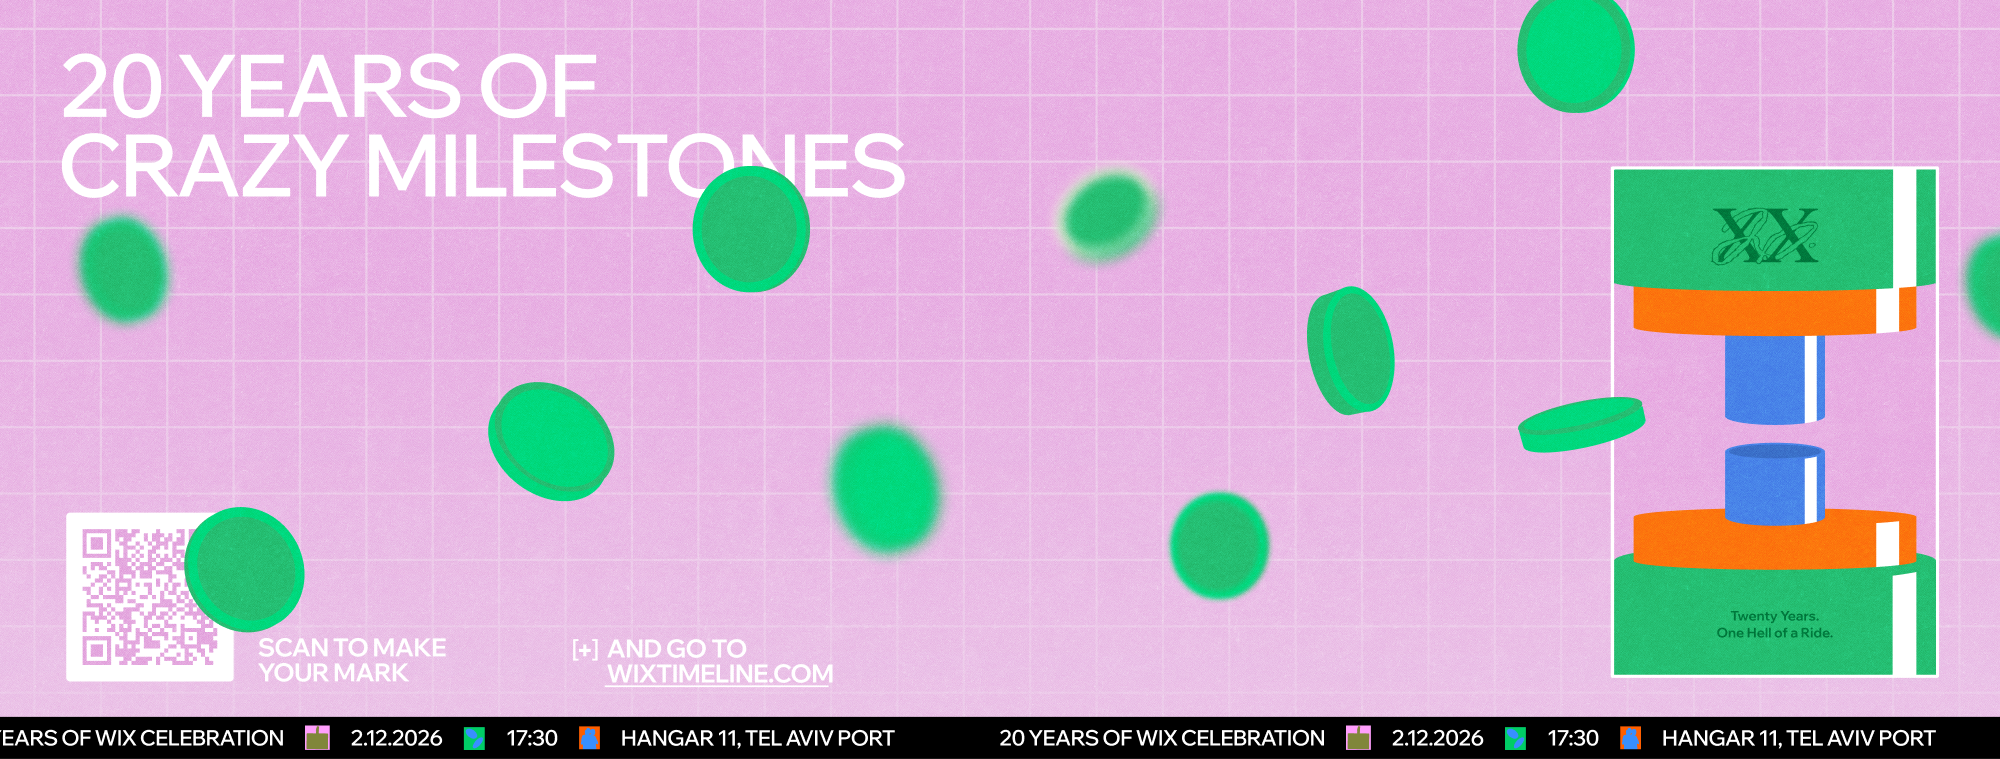
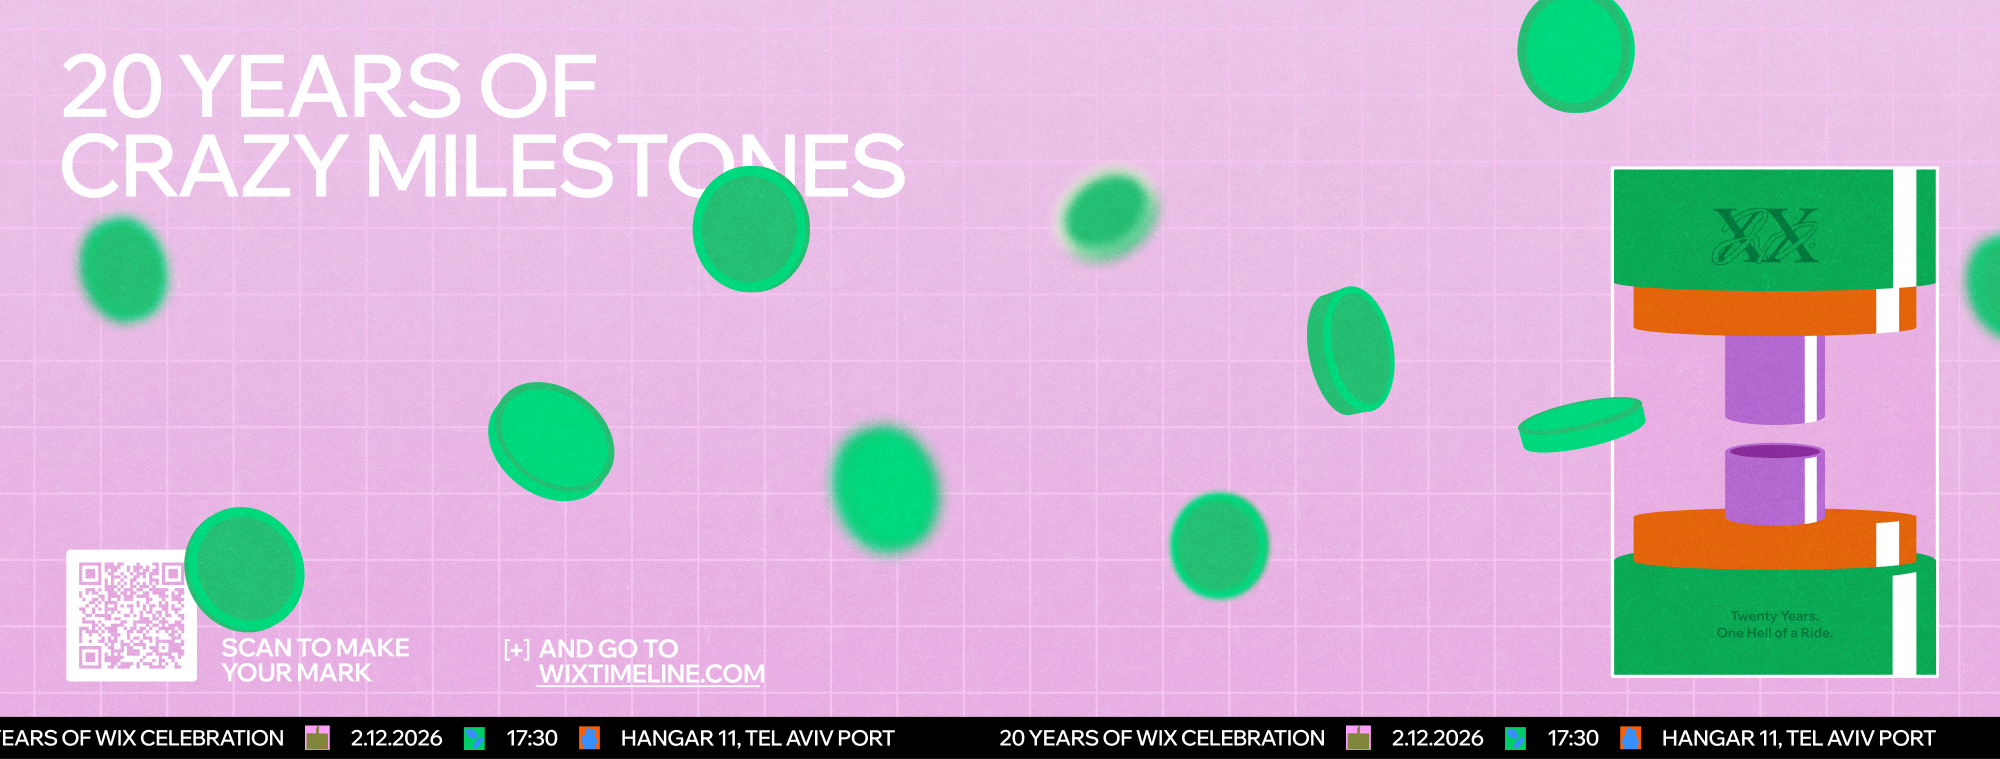
screen: 11-25 Figma update (coin colours, purple punches, light-top bg, smaller QR, text moved)

Changed region(s): [[0.806, 0.2121, 0.992, 0.9091], [0.031, 0.6667, 0.217, 0.9091], [0.248, 0.8182, 0.434, 0.9091]]

diff --git a/screen/v2-style.js b/screen/v2-style.js
@@ -5,13 +5,15 @@ export const C = {
   green: '#21ba6d', orange: '#fc750e', blue: '#4984e9', blueTop: '#3b71c8', lilac: '#eface9', white: '#ffffff', ink: '#000000',
 };
 // coin colours: the press's own colours + the lilac of the reference coin
-export const DEFAULT_COIN_COLORS = [C.green, C.orange, C.blue, C.lilac];
+// coin colours (Amnon 2026-11-25, RGB 193,118,92 / 213,207,42 / 177,13,253 / 16,157,45); the set before is PREV_COIN_COLORS
+export const DEFAULT_COIN_COLORS = ['#c1765c', '#d5cf2a', '#b10dfd', '#109d2d'];
+export const PREV_COIN_COLORS = [C.green, C.orange, C.blue, C.lilac];
 // coin colours can be chosen on the screen (office: press C) — kept in this browser, or ?colors=hex,hex,...
 export const COIN_COLORS = (() => { let l = null;
   try { const q = new URLSearchParams(location.search).get('colors'); if (q) l = q.split(',').map(h => '#' + h.replace('#', ''));
-    else l = JSON.parse(localStorage.getItem('wix20-coin-colors') || 'null'); } catch (e) {}
+    else l = JSON.parse(localStorage.getItem('wix20-coin-colors-2') || 'null'); /* -2: the 11-25 colours start fresh on every PC */ } catch (e) {}
   return (Array.isArray(l) && l.length && l.every(h => /^#[0-9a-f]{6}$/i.test(h))) ? l : DEFAULT_COIN_COLORS.slice(); })();
-export function setCoinColors(l) { COIN_COLORS.splice(0, COIN_COLORS.length, ...l); try { localStorage.setItem('wix20-coin-colors', JSON.stringify(l)); } catch (e) {} }
+export function setCoinColors(l) { COIN_COLORS.splice(0, COIN_COLORS.length, ...l); try { localStorage.setItem('wix20-coin-colors-2', JSON.stringify(l)); } catch (e) {} }
 // the art on each coin colour (white reads on all but the lilac)
 export const ART_COLORS = { [C.green]: '#ffffff', [C.orange]: '#ffffff', [C.blue]: '#ffffff', [C.lilac]: '#c46fc4' };
 export const colorFor = year => COIN_COLORS[(((+year || 2026) - 2006) % COIN_COLORS.length + COIN_COLORS.length) % COIN_COLORS.length];
@@ -27,10 +29,10 @@ export const BG = (() => { let v = null; try { v = JSON.parse(localStorage.getIt
   return { top: ok(v?.top) ? v.top : BG_DEFAULT.top, grid: ok(v?.grid) ? v.grid : BG_DEFAULT.grid }; })();
 export function setBg(o) { Object.assign(BG, o); try { localStorage.setItem('wix20-bg', JSON.stringify(BG)); } catch (e) {} }
 const mixHex = (a, b, t) => '#' + [1, 3, 5].map(i => Math.round(parseInt(a.slice(i, i + 2), 16) * (1 - t) + parseInt(b.slice(i, i + 2), 16) * t).toString(16).padStart(2, '0')).join('');
-// backdrop: flat at the top, lighter toward the bottom (Figma 9680:636: base 225,153,219 easing about a quarter of the way to #f0f0f0)
+// backdrop: lighter at the top, the chosen colour toward the bottom (Figma 9680:636 update: 235,196,232 at the top -> 232,176,227)
 export function drawBackdrop(x, W, H, ox = 0, oy = 0, FH = H) {
   const g = x.createLinearGradient(0, -oy, 0, FH - oy), b = under(BG.top);
-  for (const [at, t] of [[0, 0], [0.45, 0.023], [0.59, 0.092], [0.69, 0.15], [0.79, 0.23], [0.93, 0.276], [1, 0.276]]) g.addColorStop(at, mixHex(b, '#f0f0f0', t));
+  for (const [at, t] of [[0, 0.29], [0.3, 0.28], [0.4, 0.17], [0.5, 0.13], [0.6, 0.11], [0.7, 0.065], [0.8, 0.04], [0.9, 0], [1, 0]]) g.addColorStop(at, mixHex(b, '#f0f0f0', t));   // 11-25 update: light at the top
   x.fillStyle = g; x.fillRect(0, 0, W, H);
 }
 
@@ -46,18 +48,20 @@ export function layout(W, H) {
   return { s, box, die };
 }
 
+// the press's colours as seen on screen (Figma 9680:636, 2026-11-25 update: deeper green and orange, purple punches)
+export const PC = { green: '#0ba954', orange: '#e3650a', punch: '#b368d0', punchTop: '#8b2b9d' };
 // the press, in reference px (widths re-measured 2026-11-24: an equal gap to the frame on both sides) (absolute frame coords). cx/r: centre + half width; white: x where the lit white side starts;
 // yT/ryT: top edge + top-face ellipse (0 = hidden); yB/ryB: bottom edge + its curve. UP = the ram (moves by dy), back to front.
 const P0 = {   // re-measured off the final frame (2026-11-24): green spans the whole box; each part's white stripe ends short of its right edge (we = white end)
   UP: [
-    {cx:210,   r:50,    white:240, we:251, yT:300, yB:420, ryB:7,  col:C.blue},
-    {cx:209.5, r:141.5, white:312, we:333, yT:280, yB:326, ryB:10, col:C.orange},
-    {cx:209.5, r:161.5, white:328, we:351, yT:-400,yB:284, ryB:6,  col:C.green},
+    {cx:210,   r:50,    white:240, we:251, yT:300, yB:420, ryB:7,  col:PC.punch},
+    {cx:209.5, r:141.5, white:312, we:333, yT:280, yB:326, ryB:10, col:PC.orange},
+    {cx:209.5, r:161.5, white:328, we:351, yT:-400,yB:284, ryB:6,  col:PC.green},
   ],
   LOW: [
-    {cx:209.5, r:161.5, white:328, we:351, wT:573.5, yT:552, ryT:9, top:C.green, yB:1000, col:C.green},   // wT: the white stripe starts below the top face (Figma 9680:636)
-    {cx:209.5, r:141.5, white:312, we:333, wT:522.5, yT:520, ryT:12, top:C.orange, yB:552, ryB:16, col:C.orange},
-    {cx:210,   r:50,    white:240, we:251, yT:452, ryT:8,  top:C.blueTop, yB:517, ryB:8, col:C.blue},   // bottom curves like its top: it stands in the plate
+    {cx:209.5, r:161.5, white:328, we:351, wT:573.5, yT:552, ryT:9, top:PC.green, yB:1000, col:PC.green},   // wT: the white stripe starts below the top face (Figma 9680:636)
+    {cx:209.5, r:141.5, white:312, we:333, wT:522.5, yT:520, ryT:12, top:PC.orange, yB:552, ryB:16, col:PC.orange},
+    {cx:210,   r:50,    white:240, we:251, yT:452, ryT:8,  top:PC.punchTop, yB:517, ryB:8, col:PC.punch},   // bottom curves like its top: it stands in the plate
   ],
   OPEN: +(new URLSearchParams(location.search).get('open') ?? 0), HIT: 33,   // ram offset at rest (0 = as in the frame) / at the blow
   coinK: 0.78,             // struck coin radius / punch radius

diff --git a/screen/office.html b/screen/office.html
@@ -47,13 +47,13 @@
   <label><span>טשטוש עומק</span><input id="ta" type="range" min="0" max="0.8" step="0.05"><b id="tav"></b></label>
   <label><span>כהות הברקוד</span><input id="tq" type="range" min="0" max="1" step="0.05"><b id="tqv"></b></label>
   <div class="row"><button id="tr">ברירת מחדל</button><button id="tx">סגור</button></div></div>
-<div id="pal">רקע: <input id="bgc" type="color" title="צבע הרקע"> גריד: <input id="grc" type="color" title="צבע הגריד"> | צבעי המטבעות: <span id="palc"></span><button id="palp1">מקורי</button><button id="palp2">כחול ורוד צהוב</button><button id="palr">ברירת מחדל</button><button id="palx">סגור</button></div>
+<div id="pal">רקע: <input id="bgc" type="color" title="צבע הרקע"> גריד: <input id="grc" type="color" title="צבע הגריד"> | צבעי המטבעות: <span id="palc"></span><button id="palp1">חדש</button><button id="palp2">כחול ורוד צהוב</button><button id="palp3">קודם</button><button id="palr">ברירת מחדל</button><button id="palx">סגור</button></div>
 <div id="load">טוען…</div>
 <script type="module">
 // Office LED screen, v2 look: the event site's frame. The press sits in an opaque box at the left; the coin wall fills the whole
 // screen behind the text (cut out where the box is); each struck coin comes out of the box over its frame and into the wall.
 // 2320x880 preview, ?full = 4640x1760.
-import { layout, drawBackdrop, COIN_COLORS, DEFAULT_COIN_COLORS, setCoinColors, BG, BG_DEFAULT, setBg, under } from './v2-style.js';
+import { layout, drawBackdrop, COIN_COLORS, DEFAULT_COIN_COLORS, PREV_COIN_COLORS, setCoinColors, BG, BG_DEFAULT, setBg, under } from './v2-style.js';
 const Q=new URLSearchParams(location.search), FULL=Q.has('full');
 const W=FULL? 4640 : 2320, H=FULL? 1760 : 880, L=layout(W,H), s=L.s, B=L.box;
 const pass=['slots','poll','seed','speed','n','aifaces','pbump','pscale','colors','ap','focus','cycle','grainop','doflod','spread'].filter(k=>Q.has(k)).map(k=>`&${k}=${encodeURIComponent(Q.get(k))}`).join('');
@@ -86,10 +86,10 @@ wall.src=`index.html?embed&hole&w=${W}&h=${H}${pass}`;
 // type, placed in reference-frame px (2000 x 759)
 const place=(el,o)=>{ for(const [k,v] of Object.entries(o)) el.style[k]= typeof v==='number'? px(v) : v; };
 // 2026-11-25 Figma (big-screen-20-years 9640:6016): bigger title, big QR, bold small lines, taller strip
-place($('go'),{left:572.0, top:636.0, fontSize:25.12, lineHeight:25.12}); $('go').querySelector('b').style.left='0'; $('go').querySelector('div').style.marginLeft=px(35);
+place($('go'),{left:503.6, top:636.0, fontSize:25.12, lineHeight:25.12}); $('go').querySelector('b').style.left='0'; $('go').querySelector('div').style.marginLeft=px(35);
 place($('title'),{left:59.8, top:45.7, fontSize:86.75, lineHeight:79.65});
-place($('qr'),{left:66.25, top:512.6, width:167.4, height:168.9, padding:16.4});
-place($('scan'),{left:257.7, top:634.3, fontSize:25.12, lineHeight:25.12});
+place($('qr'),{left:66.4, top:549.6, width:130.6, height:131.9, padding:12.75});   // Figma 9680:636 11-25 update: smaller QR
+place($('scan'),{left:220.9, top:634.3, fontSize:25.12, lineHeight:25.12});
 // ?qr=0 hides the upload QR and its line (the QR opens the selfie upload page, brik-tools/people/upload-link.txt)
 if(Q.get('qr')==='0'){ $('qr').remove(); $('scan').remove(); }
 place($('strip'),{top:716.8, width:2000, height:41.8});
@@ -131,7 +131,7 @@ $('tx').onclick=()=>tune.classList.remove('on');
 $('tr').onclick=()=>{ T={...TDEF}; tuneDraw(); tuneSend(); };
 qrColor();
 $('palx').onclick=()=>pal.classList.remove('on');
-const PRESETS={palp1:DEFAULT_COIN_COLORS, palp2:['#4984e9','#eface9','#ffd03b']};   // ready colour sets; each box can still be changed by hand
+const PRESETS={palp1:DEFAULT_COIN_COLORS, palp2:['#4984e9','#eface9','#ffd03b'], palp3:PREV_COIN_COLORS};   // ready colour sets; each box can still be changed by hand
 for(const id in PRESETS) $(id).onclick=()=>{ const l=PRESETS[id].slice(); setCoinColors(l); wall.contentWindow.postMessage({type:'colors', list:l},'*'); palDraw(); };
 $('palr').onclick=()=>{ bgSend({...BG_DEFAULT}); setCoinColors(DEFAULT_COIN_COLORS.slice()); wall.contentWindow.postMessage({type:'colors', list:DEFAULT_COIN_COLORS},'*'); palDraw(); };
 window.__office={count:()=>n};
